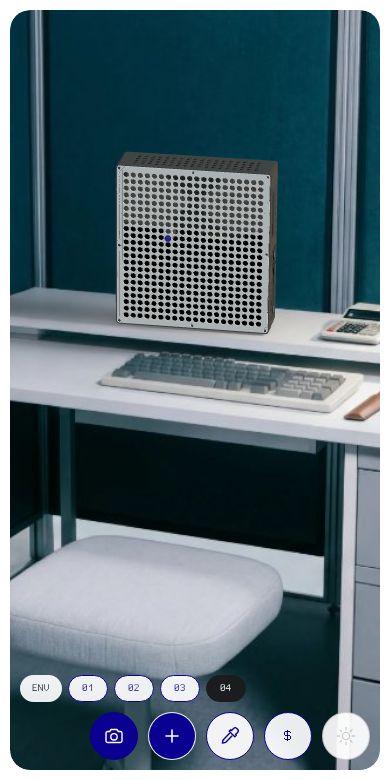
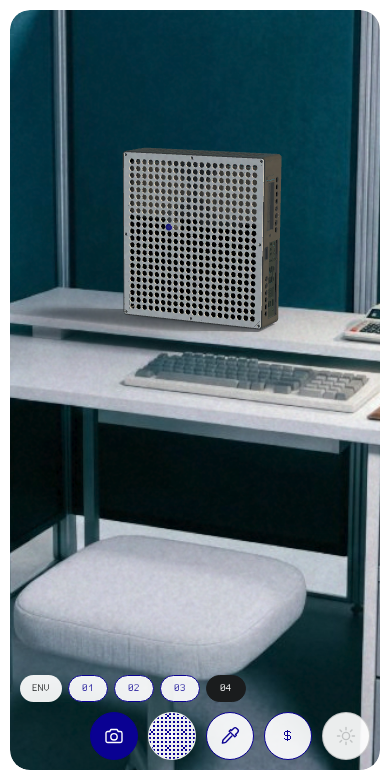
Desk mode: camera from vanishing points for environment 04, self-shadowing, grade and film grain
Claude-Session: https://claude.ai/code/session_01MK6jZUqhVDhWYCZADLaYr8

diff --git a/desk-mode/src/solve-camera-vanishing-points.js b/desk-mode/src/solve-camera-vanishing-points.js
@@ -1,0 +1,36 @@
+const W = 2000, H = 1342, cx = W / 2, cy = H / 2
+const line = (a, b) => { const A = b[1] - a[1], B = a[0] - b[0]; return [A, B, -(A * a[0] + B * a[1])] }
+const isect = (l, m) => { const d = l[0] * m[1] - m[0] * l[1]; return [(l[1] * m[2] - m[1] * l[2]) / d, (m[0] * l[2] - l[0] * m[2]) / d] }
+const P = { dFL: [566.5, 714.3], dBL: [733, 657.8], dFR: [1684.3, 878.3], dBR: [1801.7, 697.8], sFL: [745.2, 629.6], sBL: [854.8, 592.6], sFR: [1606.1, 731.3] }
+const vx = isect(line(P.dFL, P.dFR), line(P.sFL, P.sFR)), vz = isect(line(P.dFL, P.dBL), line(P.dFR, P.dBR)), vz2 = isect(line(P.sFL, P.sBL), line(P.dFR, P.dBR))
+console.log("VPx", vx.map(v => v.toFixed(0)), "VPz", vz.map(v => v.toFixed(0)), "VPz(shelfL)", vz2.map(v => v.toFixed(0)))
+const f2 = -((vx[0] - cx) * (vz[0] - cx) + (vx[1] - cy) * (vz[1] - cy)); const f = Math.sqrt(f2)
+console.log("f", f.toFixed(0), "fov", (2 * Math.atan(H / 2 / f) * 180 / Math.PI).toFixed(2))
+const norm = a => { const l = Math.hypot(...a); return a.map(v => v / l) }, cross = (a, b) => [a[1]*b[2]-a[2]*b[1], a[2]*b[0]-a[0]*b[2], a[0]*b[1]-a[1]*b[0]], dot = (a, b) => a[0]*b[0]+a[1]*b[1]+a[2]*b[2]
+// camera coords: x right, y up, z backward (three.js); pixel ray = (px-cx, -(py-cy), -f)
+const ray = p => norm([p[0] - cx, -(p[1] - cy), -f])
+let X = ray(vx).map(v => -v), Z = ray(vz)            // desk +x (to the right) and the direction of desk "depth" edges going away
+Z = Z.map(v => -v)                      // desk +z points towards the viewer side (front of desk)
+let Y = norm(cross(Z, X)); Z = norm(cross(X, Y))   // orthonormalise, keep X
+console.log("X", X.map(v => v.toFixed(3)), "Y", Y.map(v => v.toFixed(3)), "Z", Z.map(v => v.toFixed(3)), "X.Zraw", dot(ray(vx), ray(vz)).toFixed(4))
+// desk axes expressed in camera coords -> camera axes in desk coords: transpose
+const toDesk = v => [dot(v, X), dot(v, Y), dot(v, Z)]
+const fwd = toDesk([0, 0, -1]), up = toDesk([0, 1, 0]), right = toDesk([1, 0, 0])
+const roll = Math.atan2(dot(right, [0, 1, 0]), dot(up, [0, 1, 0])) * 180 / Math.PI
+console.log("forward(desk)", fwd.map(v => v.toFixed(4)), "roll deg", roll.toFixed(2), "pitch", (Math.asin(-fwd[1]) * 180 / Math.PI).toFixed(2), "az", (Math.atan2(-fwd[0], -fwd[2]) * 180 / Math.PI).toFixed(2))
+// place: PC base centre pixel + apparent height -> camera distance
+const base = JSON.parse(process.env.BASE || "[1085,655]"), hpx = +(process.env.HPX || 280), hM = 0.4156
+const rb = toDesk(ray(base))
+const proj = (p, cam) => { const d = [p[0] - cam[0], p[1] - cam[1], p[2] - cam[2]]; const xc = dot(d, right), yc = dot(d, up), zc = dot(d, fwd); return [cx + f * xc / zc, cy - f * yc / zc] }
+let lo = 0.5, hi = 30
+for (let i = 0; i < 60; i++) { const t = (lo + hi) / 2, cam = rb.map(v => -v * t); const top = proj([0, hM, 0], cam), bot = proj([0, 0, 0], cam); if (Math.hypot(top[0] - bot[0], top[1] - bot[1]) > hpx) lo = t; else hi = t }
+const t = (lo + hi) / 2, cam = rb.map(v => -v * t)
+console.log("dist", t.toFixed(3), "camera.position", cam.map(v => +v.toFixed(4)), "target", cam.map((v, i) => +(v + fwd[i] * 3).toFixed(4)), "roll", (-roll).toFixed(2))
+const un = (p, hy) => { const r = toDesk(ray(p)); const k = (hy - cam[1]) / r[1]; return cam.map((v, i) => +(v + r[i] * k).toFixed(3)) }
+for (const [n, p, h] of [["shelf FL", P.sFL, 0], ["shelf BL", P.sBL, 0], ["shelf FR", P.sFR, 0], ["shelf FL bottom", [745.2, 643.5], null], ["desk FL", P.dFL, "d"], ["desk BL", P.dBL, "d"], ["desk FR", P.dFR, "d"], ["desk BR", P.dBR, "d"], ["kb FL", [958, 738], "d"], ["calc FL", [1296, 668], 0]]) {
+  if (h === null) continue; const hy = h === "d" ? -(+(process.env.RISER || 0.06)) : h; console.log(n, un(p, hy)) }
+// riser: vertical px per metre at shelf front-left
+const sfl = un(P.sFL, 0); const a = proj(sfl, cam), b2 = proj([sfl[0], -0.1, sfl[2]], cam); console.log("px per 10cm vertical at shelf FL", (b2[1] - a[1]).toFixed(1), "check sFL reproj", a.map(v => v.toFixed(1)))
+console.log("pc corners px", [[-0.1723,0],[0.1723,0],[-0.1723,hM],[0.1723,hM]].map(([x, y]) => proj([x, y, 0.0443], cam).map(v => v.toFixed(0)).join(",")).join(" | "))
+{ const fl = un([1835, 1215], -0.79); let lo = -0.8, hi = 2; for (let i = 0; i < 50; i++) { const y = (lo + hi) / 2; if (proj([fl[0], y, fl[2]], cam)[1] > 320) lo = y; else hi = y }
+  console.log("lamp base", fl, "shade centre y", ((lo + hi) / 2).toFixed(3), "shade px x", proj([fl[0], (lo + hi) / 2, fl[2]], cam)[0].toFixed(0)) }
